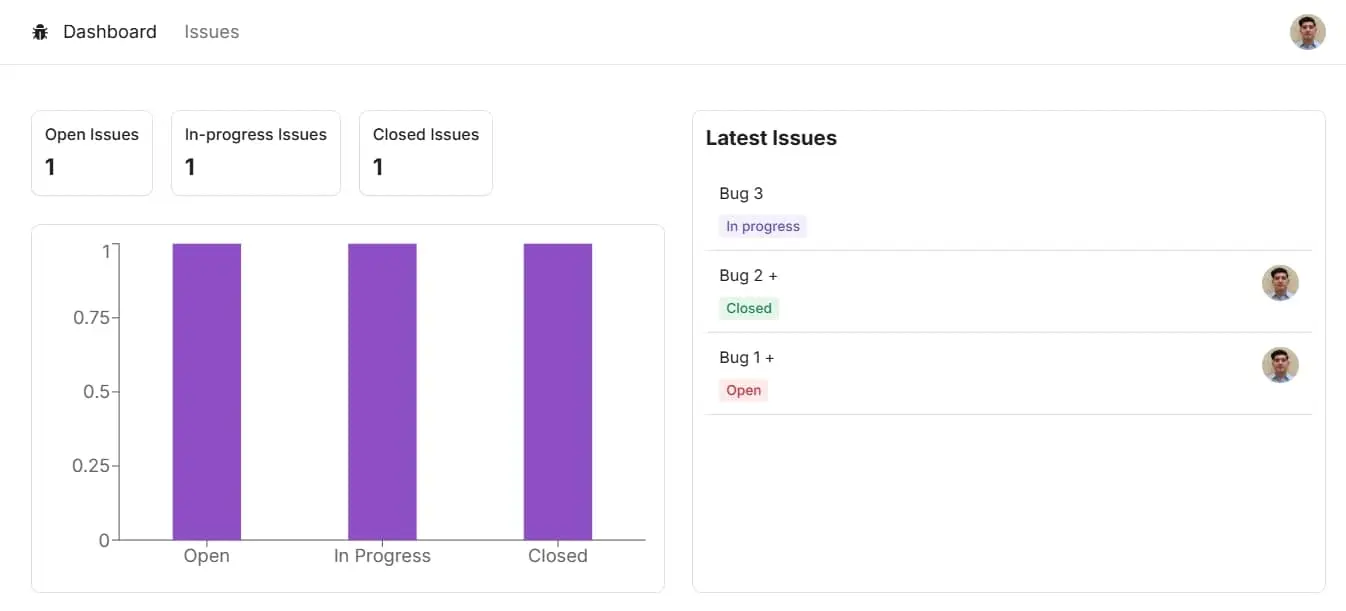
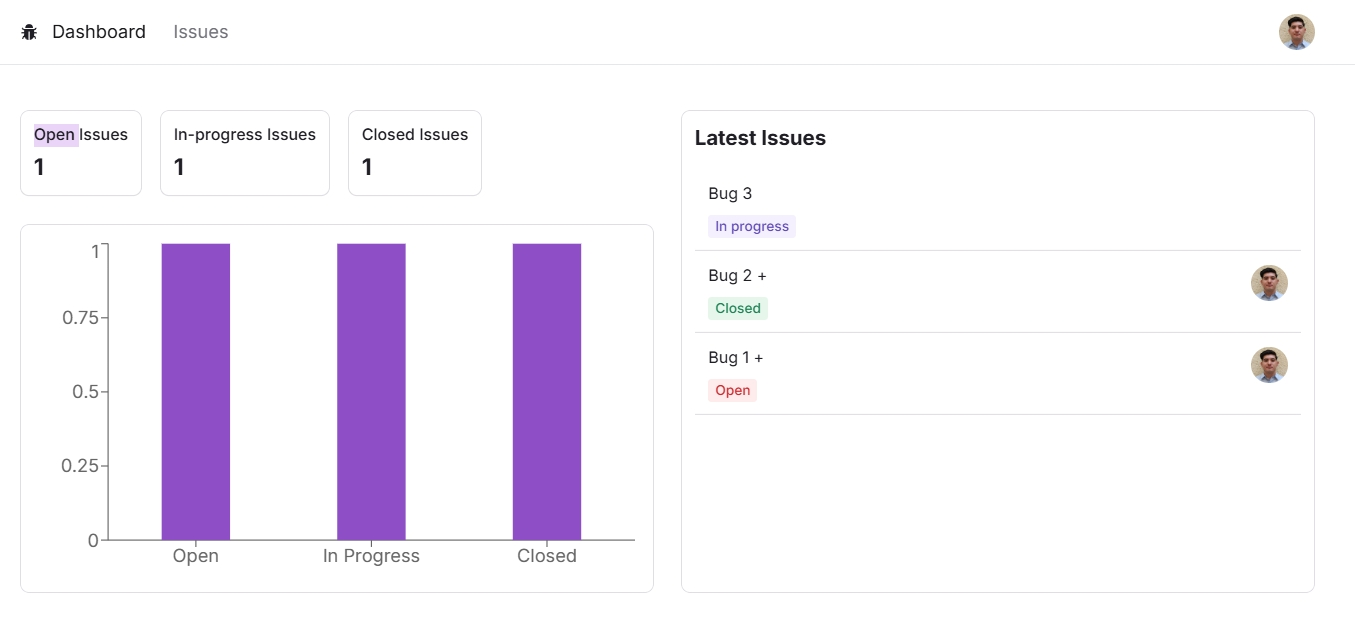
Change code and demo buttons bg color

diff --git a/src/components/buttons/DemoButton.tsx b/src/components/buttons/DemoButton.tsx
@@ -7,7 +7,7 @@ interface Props {
 const DemoButton = ({ demo }: Props) => {
   return (
     <a href={demo} target="_blank" className="text-lg">
-      <button className="bg-[#bfbfbf] dark:bg-[#303030] p-2 rounded-xl dark:hover:bg-[#0081b4] hover:bg-[#0081b4] transition ease-out hover:scale-110 duration-300 flex justify-center items-center border-[1px] border-white/20 hover:border-2 hover:border-white">
+      <button className="bg-[#f2f2f2] dark:bg-[#303030] p-2 rounded-xl dark:hover:bg-[#0081b4] hover:bg-[#0081b4] transition ease-out hover:scale-110 duration-300 flex justify-center items-center border-[1px] border-white/20 hover:border-2 hover:border-white">
         <IoIosLink size="25px" />
         <span>Demo</span>
       </button>

diff --git a/src/components/buttons/CodeButton.tsx b/src/components/buttons/CodeButton.tsx
@@ -7,7 +7,7 @@ interface Props {
 const CodeButton = ({ code }: Props) => {
   return (
     <a href={code} target="_blank" className="text-lg">
-      <button className="bg-[#bfbfbf] dark:bg-[#303030] p-2 rounded-xl hover:bg-[#0081b4] dark:hover:bg-[#0081b4] transition ease-out hover:scale-110 duration-300 flex justify-center items-center border-[1px] border-white/20 hover:border-2 hover:border-white">
+      <button className="bg-[#f2f2f2] dark:bg-[#303030] p-2 rounded-xl hover:bg-[#0081b4] dark:hover:bg-[#0081b4] transition ease-out hover:scale-110 duration-300 flex justify-center items-center border-[1px] border-white/20 hover:border-2 hover:border-white">
         <FiGithub size="25px" />
         <span>Code</span>
       </button>
